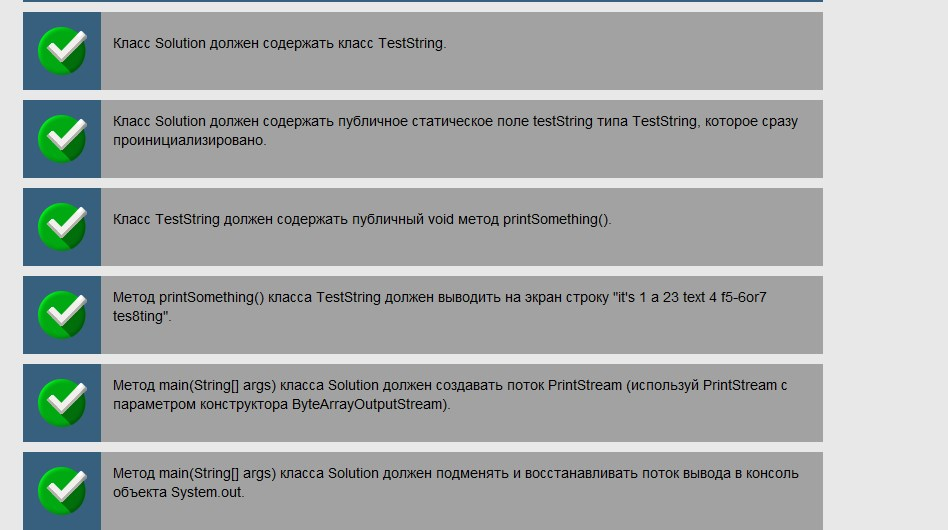
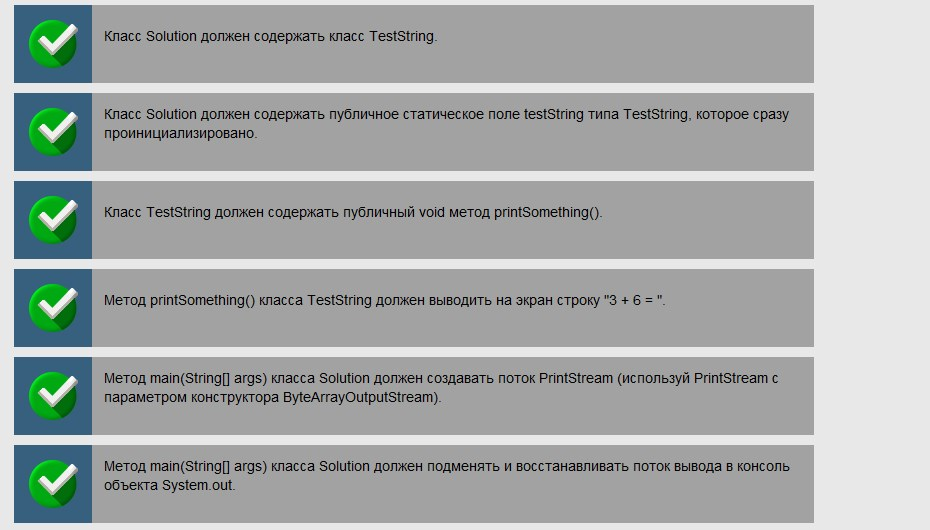
Решаем пример
task19.task1914;

Changed region(s): [[0.0, 0.0, 0.8731, 1.0]]

diff --git a/JavaRushTasks/JavaRushTasks/2.JavaCore/src/com/javarush/task/task19/task1914/Solution.java b/JavaRushTasks/JavaRushTasks/2.JavaCore/src/com/javarush/task/task19/task1914/Solution.java
@@ -1,0 +1,30 @@
+package com.javarush.task.task19.task1914;
+
+/* 
+Решаем пример
+В методе main подмени объект System.out написанной тобой ридер-оберткой по аналогии с лекцией.
+Твоя ридер-обертка должна выводить на консоль решенный пример.
+Вызови готовый метод printSomething(), воспользуйтесь testString.
+Верни переменной System.out первоначальный поток.
+
+Возможные операции: + — *
+Шаблон входных данных и вывода: a [знак] b = c
+Отрицательных и дробных чисел, унарных операторов — нет.
+
+Пример вывода:
+3 + 6 = 9
+*/
+
+public class Solution {
+    public static TestString testString = new TestString();
+
+    public static void main(String[] args) {
+    }
+
+    public static class TestString {
+        public void printSomething() {
+            System.out.println("3 + 6 = ");
+        }
+    }
+}
+
